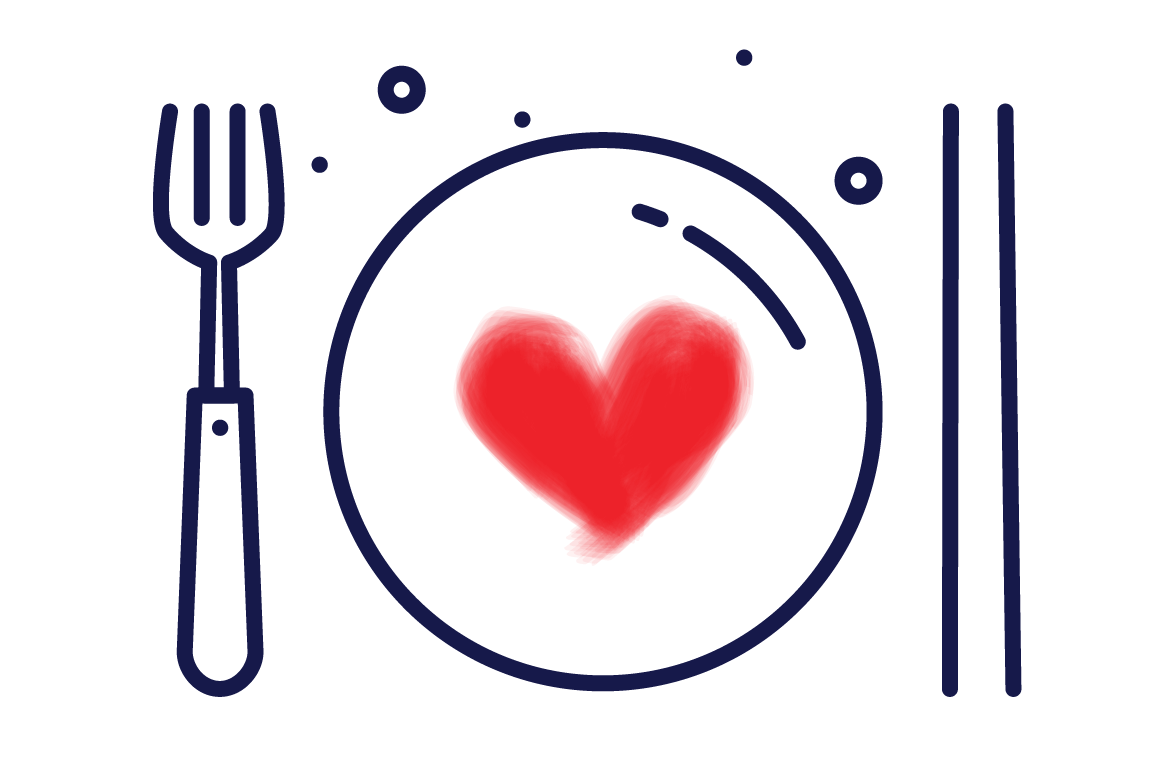
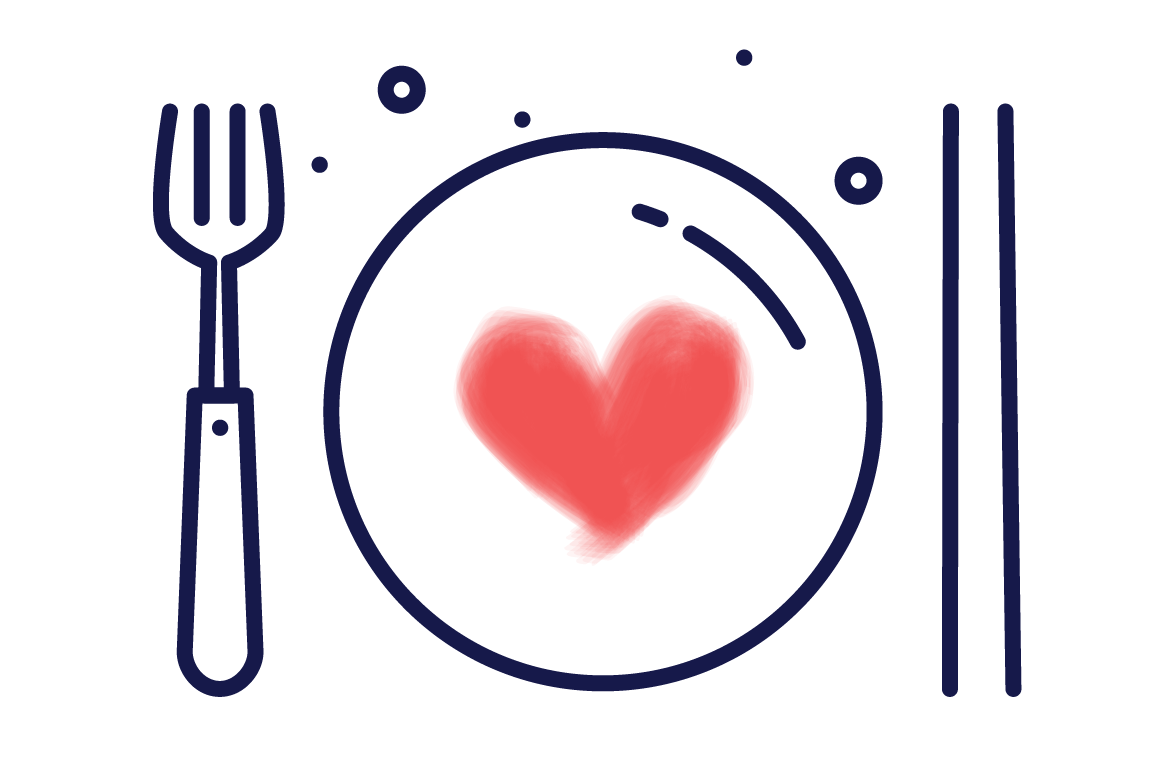
update

Changed region(s): [[0.3747, 0.3745, 0.6557, 0.7178]]

diff --git a/index.html b/index.html
@@ -187,21 +187,21 @@
                 </div>
                 <div class="row justify-content-center ">
                     <div class="col-md-3 col-sm-3 text-center item ">
-                        <img src="img/adrian.jpg " alt=" ">
+                        <img src="img/adrian.jpg" alt=" ">
                         <span class="name">
                             Adrian
                         </span>
                         <span class="family-name name">Lin</span>
                     </div>
                     <div class="col-md-3 col-sm-3 text-center item ">
-                        <img src="img/cate.jpg " alt=" ">
+                        <img src="img/cate.jpg" alt=" ">
                         <span class="name ">
                             Cate
                         </span>
                         <span class="family-name name">Wang</span>
                     </div>
                     <div class="col-md-3 col-sm-3 text-center item ">
-                        <img src="img/corey.jpg " alt=" ">
+                        <img src="img/corey.jpg" alt=" ">
                         <span class="name ">
                             Corey
                         </span>
@@ -210,28 +210,28 @@
                 </div>
                 <div class="row justify-content-center ">
                     <div class="col-md-3 col-sm-3 text-center item ">
-                        <img src="img/img.jpg " alt=" ">
+                        <img src="img/img.jpg" alt=" ">
                         <span class="name ">
                             Jem
                         </span>
                         <span class="family-name name">Atlas</span>
                     </div>
                     <div class="col-md-3 col-sm-3 text-center item ">
-                        <img src="img/jonathan.jpg " alt=" ">
+                        <img src="img/jonathan.jpg" alt=" ">
                         <span class="name ">
                             Jonathan
                         </span>
                         <span class="family-name name">Zhang</span>
                     </div>
                     <div class="col-md-3 col-sm-3 text-center item ">
-                        <img src="img/patrick.jpg " alt=" ">
+                        <img src="img/patrick.jpg" alt=" ">
                         <span class="name ">
                             Patrick
                         </span>
                         <span class="family-name name">Coleman</span>
                     </div>
                     <div class="col-md-3 col-sm-3 text-center item ">
-                        <img src="img/siying.jpg " alt=" ">
+                        <img src="img/siying.JPG" alt=" ">
                         <span class="name ">
                             Siying
                         </span>

diff --git a/main.less b/main.less
@@ -4,7 +4,7 @@
 }
 
 @primary-dark: #03144c;
-@primary-light: #ffb4b4;
+@primary-light: #fd8678; 
 @primary-white: #ffffff;
 
 * {
@@ -21,9 +21,7 @@
 .footer {
     font-family: 'Maven Pro', sans-serif;
     font-size: 14px;
-    margin-bottom: 8px;
-    // color: @primary-light;
-
+    margin-bottom: 8px; // color: @primary-light;
     position: absolute;
     bottom: 24px;
     width: 80%;
@@ -95,6 +93,13 @@ a {
             }
         }
     }
+    .rsvp {
+        &:hover {
+            color: @primary-white;
+            background: @primary-dark;
+            border-color: @primary-dark;
+        }
+    }
     @media only screen and (max-width: 1024px) {
         background-size: auto 100%;
     }
@@ -137,7 +142,7 @@ a {
         margin: 8px 16px;
     }
     a {
-        padding: 2px 8px 1px 8px;
+        padding: 4px 8px 2px 8px;
         font-weight: 500;
         font-family: 'Maven Pro', sans-serif;
         text-transform: uppercase; // letter-spacing: 1px;
@@ -163,6 +168,7 @@ a {
     }
     * {
         color: @primary-white;
+        text-shadow: 0px 0px 6px fade(@primary-dark, 32%);
     }
     .link {
         a {
@@ -176,7 +182,9 @@ a {
     }
     .rsvp {
         &:hover {
-            color: white;
+            color: @primary-dark;
+            background: @primary-white;
+            border-color: @primary-white;
         }
     }
 }
@@ -206,27 +214,24 @@ a {
         }
         .time {
             font-weight: 700;
-            
+
             margin-bottom: 0px;
             @media only screen and (max-width: 768px) {
                 display: inline-block;
-                font-weight: 400;
-                // font-size: 16px;
+                font-weight: 400; // font-size: 16px;
             }
         }
         .to-do {
-            color: @primary-light;
-            // text-transform: uppercase;
+            color: @primary-light; // text-transform: uppercase;
             @media only screen and (max-width: 768px) {
-                display: inline-block;
-                // font-size: 16px;
+                display: inline-block; // font-size: 16px;
             }
         }
     }
 }
 
 .people {
-    background: #fdf6f7;
+    background: fade(@primary-light, 8%);
     .small-title {
         // color: white;
     }
@@ -333,7 +338,8 @@ a {
     }
 }
 
-#fp-nav ul li a span, .fp-slidesNav ul li a span{
+#fp-nav ul li a span,
+.fp-slidesNav ul li a span {
     background: @primary-dark;
 }
 

diff --git a/main.css b/main.css
@@ -91,6 +91,11 @@ a:hover {
     width: 16px;
   }
 }
+.home .rsvp:hover {
+  color: #ffffff;
+  background: #03144c;
+  border-color: #03144c;
+}
 @media only screen and (max-width: 1024px) {
   .home {
     background-size: auto 100%;
@@ -130,7 +135,7 @@ a:hover {
   }
 }
 .link a {
-  padding: 2px 8px 1px 8px;
+  padding: 4px 8px 2px 8px;
   font-weight: 500;
   font-family: 'Maven Pro', sans-serif;
   text-transform: uppercase;
@@ -155,6 +160,7 @@ a:hover {
 }
 .wedding * {
   color: #ffffff;
+  text-shadow: 0px 0px 6px rgba(3, 20, 76, 0.32);
 }
 .wedding .link a {
   border-bottom: 3px solid #ffffff;
@@ -165,7 +171,9 @@ a:hover {
   background: white;
 }
 .wedding .rsvp:hover {
-  color: white;
+  color: #03144c;
+  background: #ffffff;
+  border-color: #ffffff;
 }
 .details .event {
   letter-spacing: 1;
@@ -205,7 +213,7 @@ a:hover {
   }
 }
 .details .event .to-do {
-  color: #ffb4b4;
+  color: #fd8678;
 }
 @media only screen and (max-width: 768px) {
   .details .event .to-do {
@@ -213,7 +221,7 @@ a:hover {
   }
 }
 .people {
-  background: #fdf6f7;
+  background: rgba(253, 134, 120, 0.08);
 }
 .people .item {
   margin-bottom: 32px;
@@ -270,10 +278,10 @@ a:hover {
   }
 }
 .information .link a {
-  border-bottom: 3px solid #ffb4b4;
+  border-bottom: 3px solid #fd8678;
 }
 .information .link a:hover {
-  background: #ffb4b4;
+  background: #fd8678;
   color: #ffffff;
 }
 .title-row {
@@ -314,7 +322,7 @@ a:hover {
   background: #03144c;
 }
 .light-text {
-  color: #ffb4b4;
+  color: #fd8678;
 }
 .display-control {
   display: inline-block;
